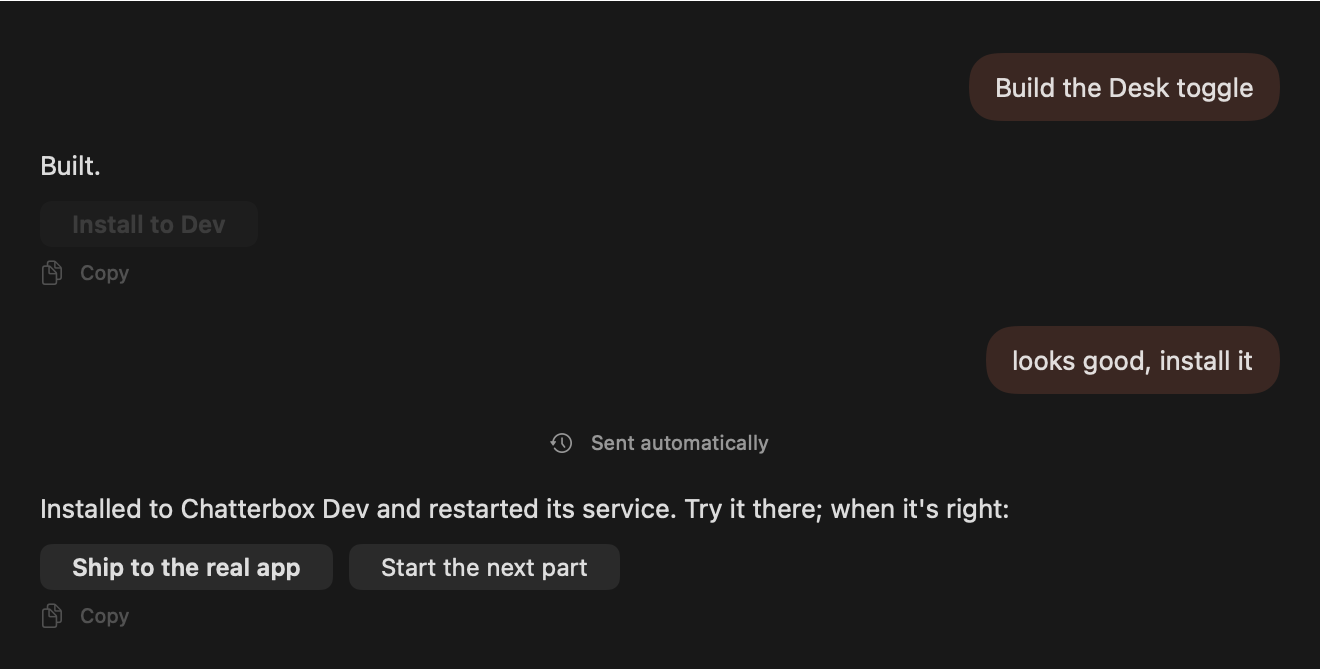
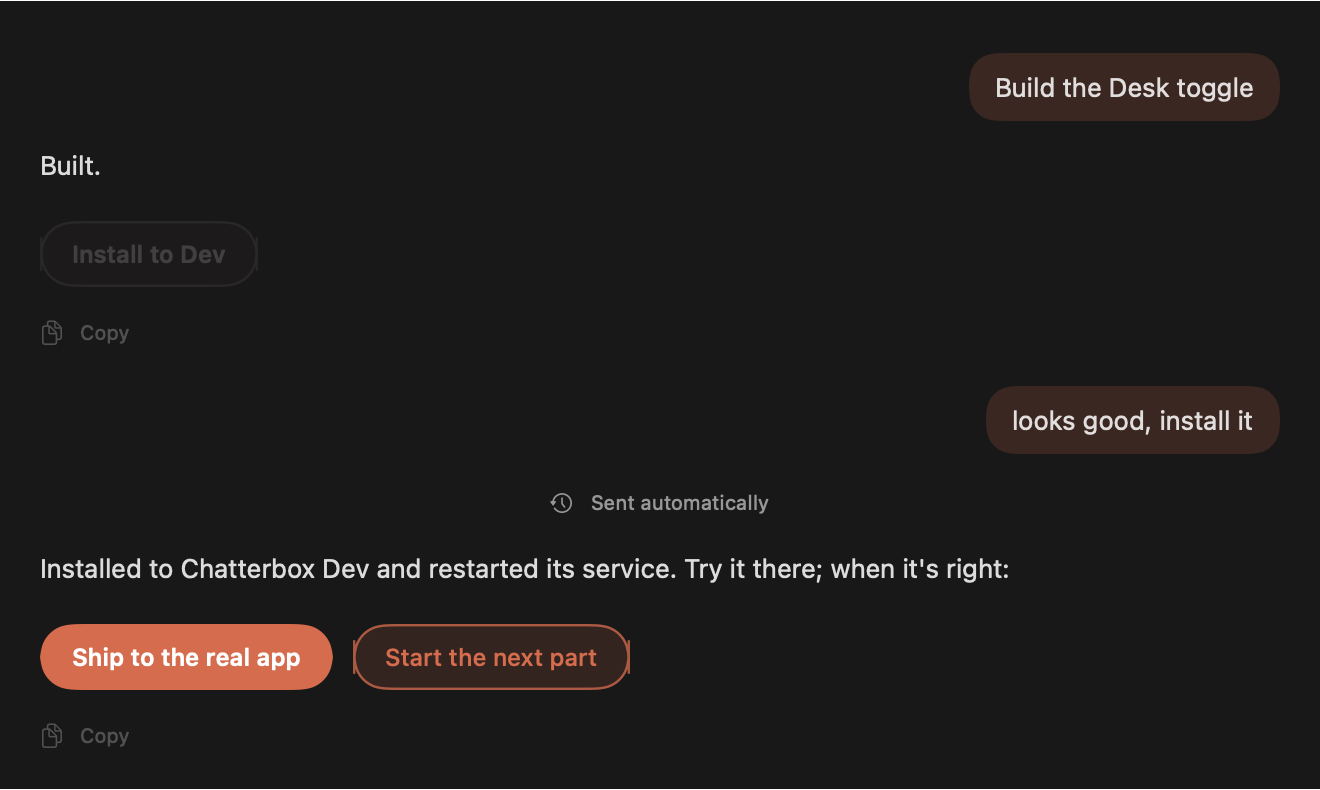
Action buttons in the provider's color; test renders with Claude's

diff --git a/tests/reply-actions/main.swift b/tests/reply-actions/main.swift
@@ -14,7 +14,7 @@ struct Transcript: View {
   VStack(alignment:.leading,spacing:14) {
    ForEach(items) { ItemView(item:$0) }
   }
-  .environment(\.replyActionResolver, ReplyActionResolver(items:items) { text in items.append(DisplayItem(kind:.user,text:text)) })
+  .environment(\.replyActionResolver, ReplyActionResolver(items:items, send: { text in items.append(DisplayItem(kind:.user,text:text)) }, tint: ReaderStyle.defaults.color(for: .claude)))
  }
 }
 
